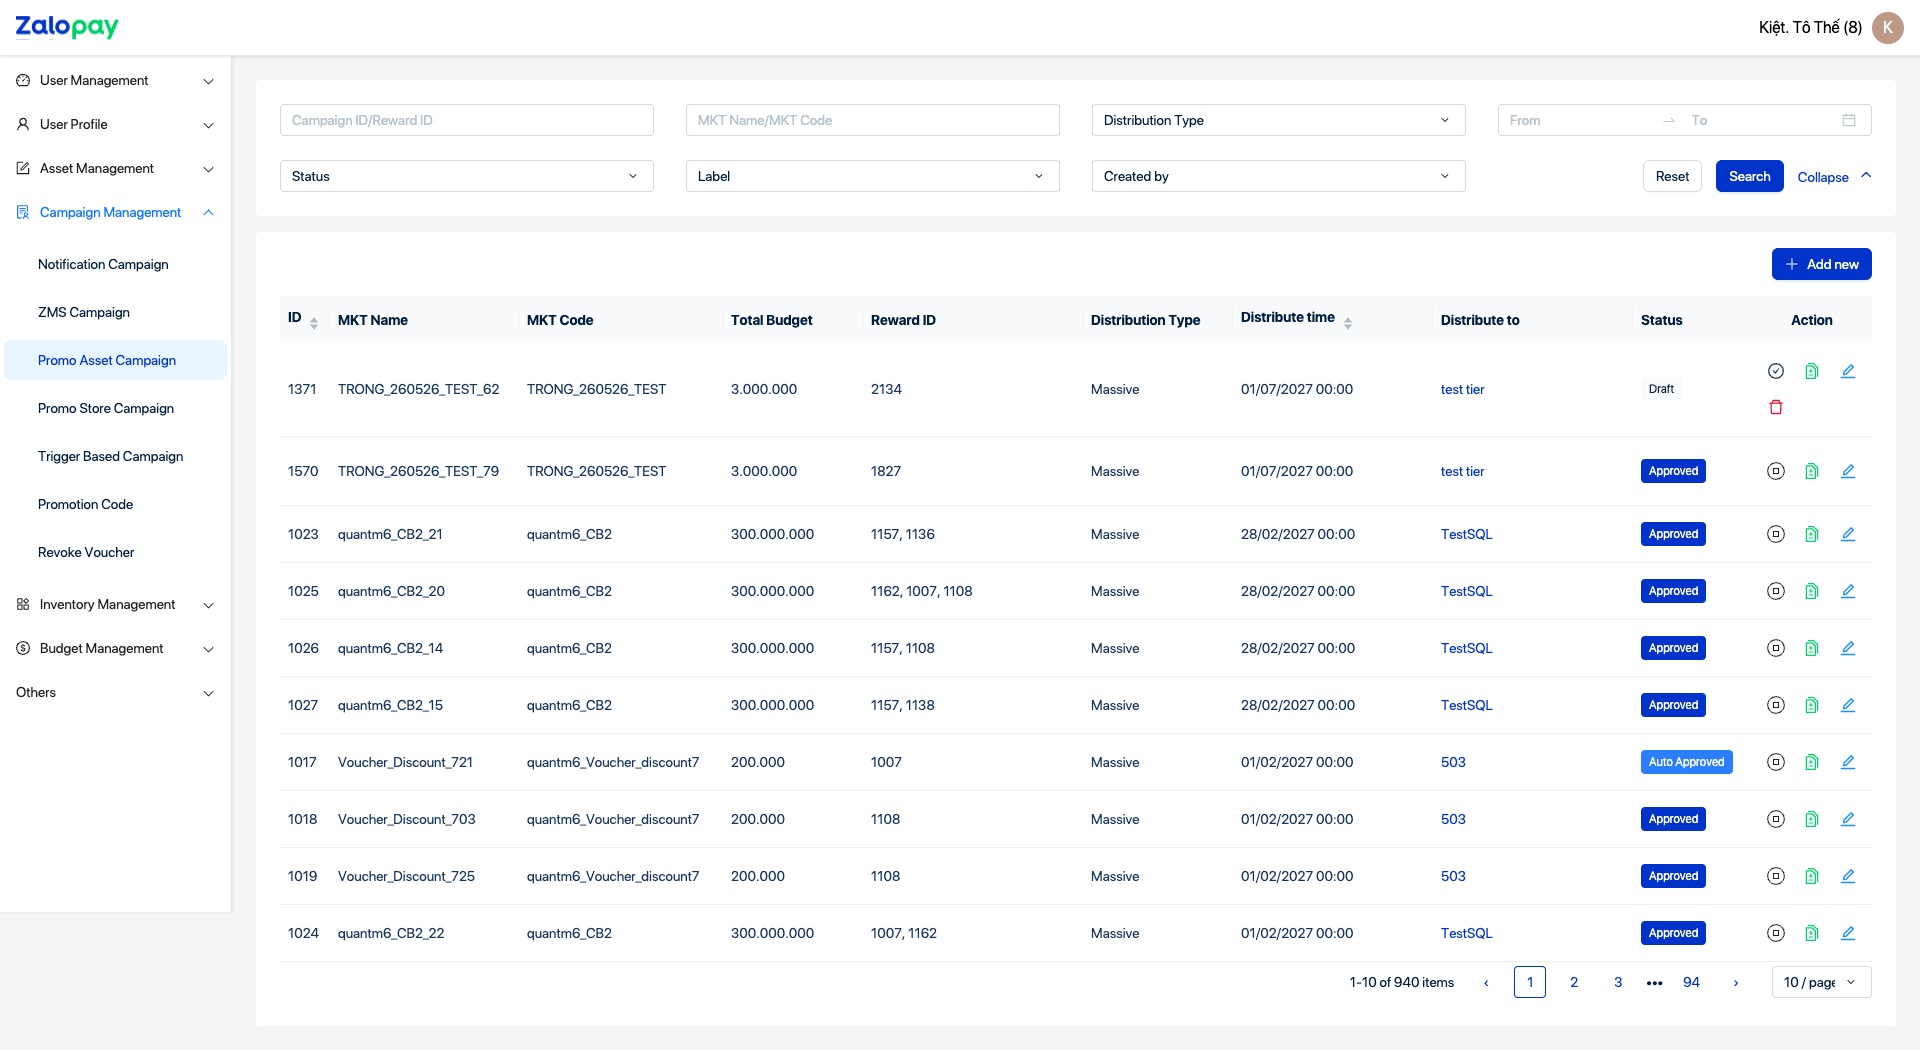
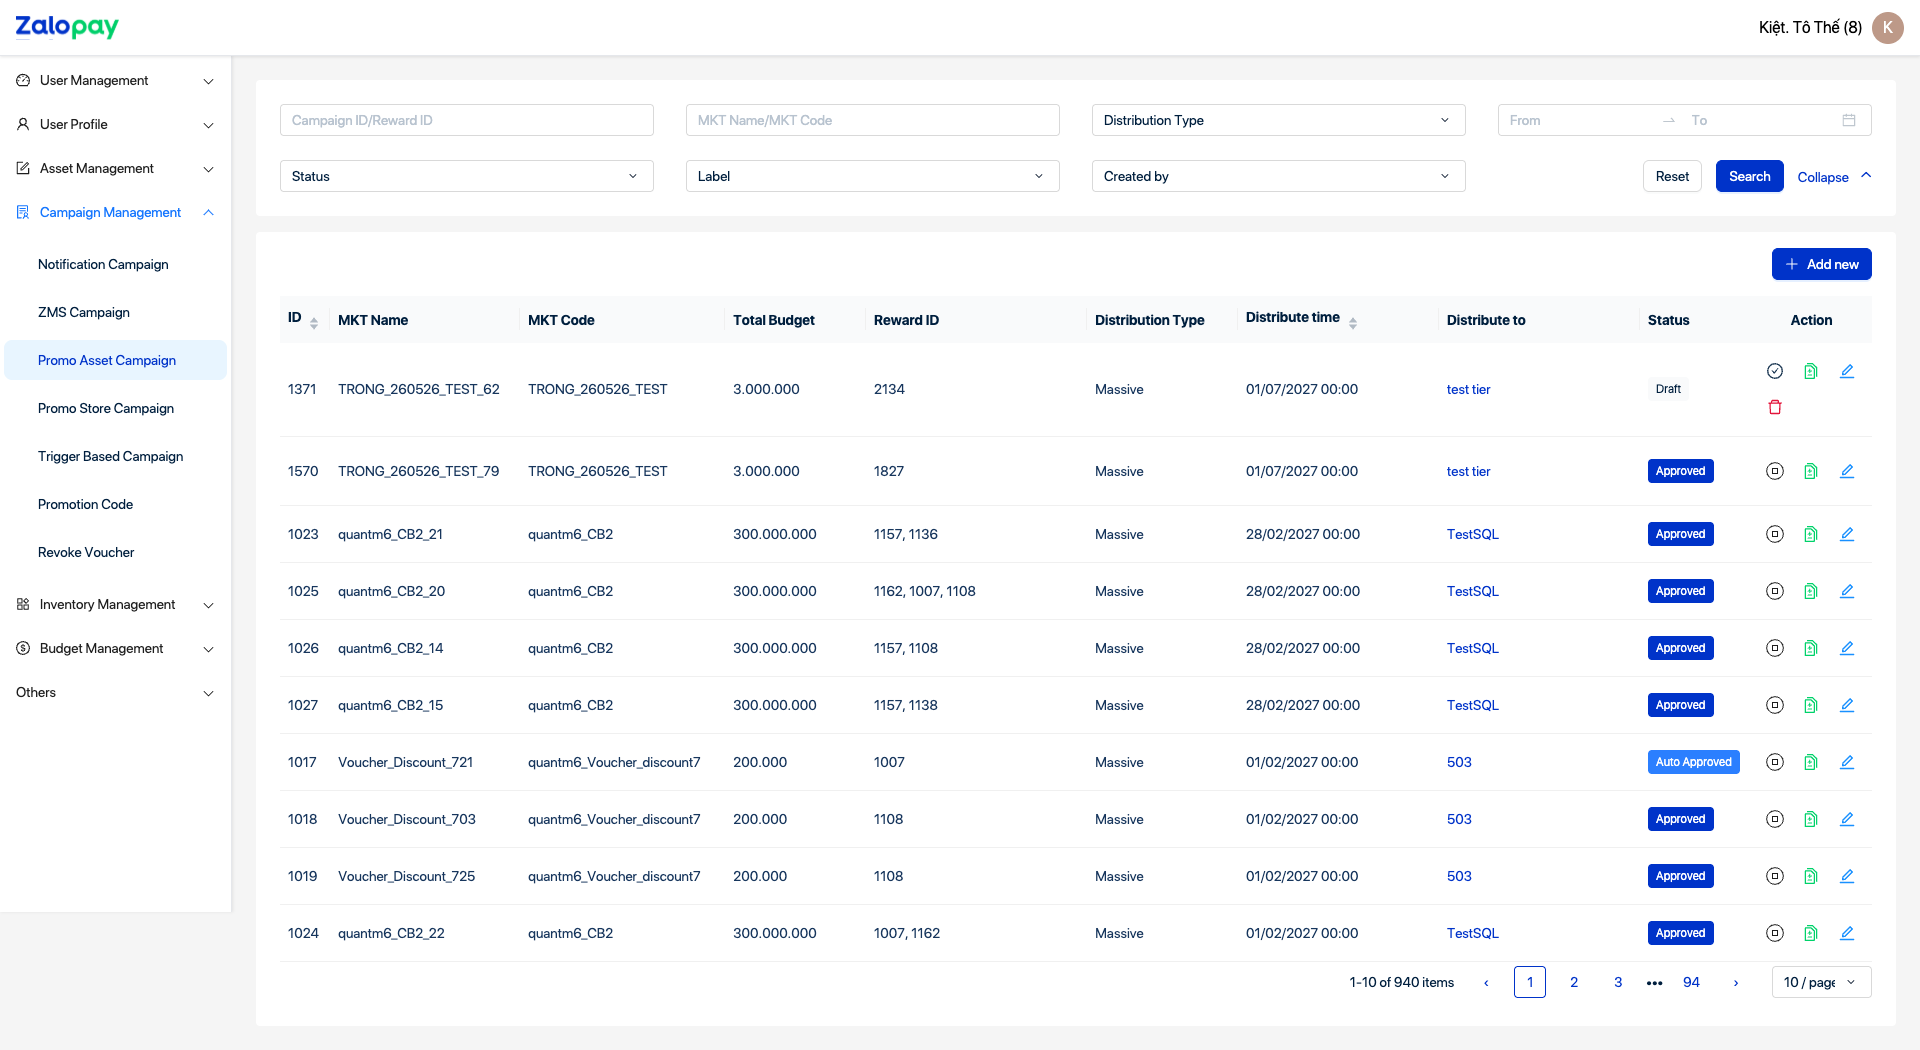
Complete Promo Asset list columns

diff --git a/app.js b/app.js
@@ -48,16 +48,16 @@ const state = {
 };
 
 const assetCampaigns = [
-  { id: 1371, name: "TRONG_260526_TEST_62", code: "TRONG_260526_TEST", budget: 3000000, rewards: "2134", type: "Massive", time: "01/07/2027 00:00", target: "test tier", status: "Draft" },
-  { id: 1570, name: "TRONG_260526_TEST_79", code: "TRONG_260526_TEST", budget: 3000000, rewards: "1827", type: "Massive", time: "01/07/2027 00:00", target: "test tier", status: "Approved" },
-  { id: 1023, name: "quantm6_CB2_21", code: "quantm6_CB2", budget: 300000000, rewards: "1157, 1136", type: "Massive", time: "28/02/2027 00:00", target: "TestSQL", status: "Approved" },
-  { id: 1025, name: "quantm6_CB2_20", code: "quantm6_CB2", budget: 300000000, rewards: "1162, 1007, 1108", type: "Massive", time: "28/02/2027 00:00", target: "TestSQL", status: "Approved" },
-  { id: 1026, name: "quantm6_CB2_14", code: "quantm6_CB2", budget: 300000000, rewards: "1157, 1108", type: "Massive", time: "28/02/2027 00:00", target: "TestSQL", status: "Approved" },
-  { id: 1027, name: "quantm6_CB2_15", code: "quantm6_CB2", budget: 300000000, rewards: "1157, 1138", type: "Massive", time: "28/02/2027 00:00", target: "TestSQL", status: "Approved" },
-  { id: 1017, name: "Voucher_Discount_721", code: "quantm6_Voucher_discount7", budget: 200000, rewards: "1007", type: "Massive", time: "01/02/2027 00:00", target: "503", status: "Auto Approved" },
-  { id: 1018, name: "Voucher_Discount_703", code: "quantm6_Voucher_discount7", budget: 200000, rewards: "1108", type: "Massive", time: "01/02/2027 00:00", target: "503", status: "Approved" },
-  { id: 1019, name: "Voucher_Discount_725", code: "quantm6_Voucher_discount7", budget: 200000, rewards: "1108", type: "Massive", time: "01/02/2027 00:00", target: "503", status: "Approved" },
-  { id: 1024, name: "quantm6_CB2_22", code: "quantm6_CB2", budget: 300000000, rewards: "1007, 1162", type: "Massive", time: "01/02/2027 00:00", target: "TestSQL", status: "Approved" }
+  { id: 1371, name: "TRONG_260526_TEST_62", code: "TRONG_260526_TEST", budget: 3000000, rewards: "2134", type: "Massive", time: "01/07/2027 00:00", target: "test tier", status: "Draft", label: "annhg_test_icon, ZPO_a, Enablers", owner: "trongdd2" },
+  { id: 1570, name: "TRONG_260526_TEST_79", code: "TRONG_260526_TEST", budget: 3000000, rewards: "1827", type: "Massive", time: "01/07/2027 00:00", target: "test tier", status: "Approved", label: "annhg_test_icon, ZPO_a, Enablers", owner: "trongdd2" },
+  { id: 1023, name: "quantm6_CB2_21", code: "quantm6_CB2", budget: 300000000, rewards: "1157, 1136", type: "Massive", time: "28/02/2027 00:00", target: "TestSQL", status: "Approved", label: "", owner: "nghiatn" },
+  { id: 1025, name: "quantm6_CB2_20", code: "quantm6_CB2", budget: 300000000, rewards: "1162, 1007, 1108", type: "Massive", time: "28/02/2027 00:00", target: "TestSQL", status: "Approved", label: "", owner: "nghiatn" },
+  { id: 1026, name: "quantm6_CB2_14", code: "quantm6_CB2", budget: 300000000, rewards: "1157, 1108", type: "Massive", time: "28/02/2027 00:00", target: "TestSQL", status: "Approved", label: "", owner: "nghiatn" },
+  { id: 1027, name: "quantm6_CB2_15", code: "quantm6_CB2", budget: 300000000, rewards: "1157, 1138", type: "Massive", time: "28/02/2027 00:00", target: "TestSQL", status: "Approved", label: "", owner: "nghiatn" },
+  { id: 1017, name: "Voucher_Discount_721", code: "quantm6_Voucher_discount7", budget: 200000, rewards: "1007", type: "Massive", time: "01/02/2027 00:00", target: "503", status: "Auto Approved", label: "", owner: "nghiatn" },
+  { id: 1018, name: "Voucher_Discount_703", code: "quantm6_Voucher_discount7", budget: 200000, rewards: "1108", type: "Massive", time: "01/02/2027 00:00", target: "503", status: "Approved", label: "", owner: "nghiatn" },
+  { id: 1019, name: "Voucher_Discount_725", code: "quantm6_Voucher_discount7", budget: 200000, rewards: "1108", type: "Massive", time: "01/02/2027 00:00", target: "503", status: "Approved", label: "", owner: "nghiatn" },
+  { id: 1024, name: "quantm6_CB2_22", code: "quantm6_CB2", budget: 300000000, rewards: "1007, 1162", type: "Massive", time: "01/02/2027 00:00", target: "TestSQL", status: "Approved", label: "", owner: "nghiatn" }
 ];
 
 state.campaigns = state.campaigns.map((campaign, campaignIndex) => {
@@ -160,7 +160,7 @@ function assetActionIcon(kind, label) {
 function renderAssetRows(rows = assetCampaigns) {
   const body = document.getElementById("assetCampaignRows");
   body.innerHTML = rows.map(item => `<tr>
-    <td>${item.id}</td><td>${item.name}</td><td>${item.code}</td><td>${money(item.budget)}</td><td>${item.rewards}</td><td>${item.type}</td><td>${item.time}</td><td><a href="#">${item.target}</a></td><td><span class="status ${statusClass(item.status)}">${item.status}</span></td>
+    <td>${item.id}</td><td>${item.name}</td><td>${item.code}</td><td>${money(item.budget)}</td><td>${item.rewards}</td><td>${item.type}</td><td>${item.time}</td><td><a href="#">${item.target}</a></td><td><span class="status ${statusClass(item.status)}">${item.status}</span></td><td>${item.label}</td><td>${item.owner}</td>
     <td><div class="asset-row-actions">${assetActionIcon(item.status === "Draft" ? "approve" : "stop", item.status === "Draft" ? "Approve" : "Stop")}${assetActionIcon("clone", "Clone")}${assetActionIcon("edit", "Edit")}${item.status === "Draft" ? assetActionIcon("delete", "Delete") : ""}</div></td>
   </tr>`).join("");
   document.getElementById("assetItemCount").textContent = rows.length ? `1-${rows.length} of 940 items` : "0 items";
@@ -192,7 +192,9 @@ function initAssetList() {
     const mkt = document.getElementById("assetFilterMkt").value.toLowerCase().trim();
     const type = document.getElementById("assetFilterType").value;
     const status = document.getElementById("assetFilterStatus").value;
-    renderAssetRows(assetCampaigns.filter(item => (!id || String(item.id).includes(id) || item.rewards.includes(id)) && (!mkt || item.name.toLowerCase().includes(mkt) || item.code.toLowerCase().includes(mkt)) && (!type || item.type === type) && (!status || item.status === status)));
+    const label = document.getElementById("assetFilterLabel").value;
+    const owner = document.getElementById("assetFilterOwner").value;
+    renderAssetRows(assetCampaigns.filter(item => (!id || String(item.id).includes(id) || item.rewards.includes(id)) && (!mkt || item.name.toLowerCase().includes(mkt) || item.code.toLowerCase().includes(mkt)) && (!type || item.type === type) && (!status || item.status === status) && (!label || item.label.includes(label)) && (!owner || item.owner === owner)));
   };
   main.onclick = event => {
     const action = event.target.closest(".asset-icon-button");

diff --git a/index.html b/index.html
@@ -83,7 +83,7 @@
           <div class="asset-date-range" aria-label="Distribute time"><input id="assetFilterFrom" placeholder="From" aria-label="From"><span>→</span><input id="assetFilterTo" placeholder="To" aria-label="To"><span class="calendar-mark" aria-hidden="true"></span></div>
           <select id="assetFilterStatus" aria-label="Status"><option value="">Status</option><option>Draft</option><option>Approved</option><option>Auto Approved</option></select>
           <select id="assetFilterLabel" aria-label="Label"><option value="">Label</option><option>ZPO</option><option>BAU</option></select>
-          <select id="assetFilterOwner" aria-label="Created by"><option value="">Created by</option><option>kiettt8</option><option>nghiatn</option></select>
+          <select id="assetFilterOwner" aria-label="Created by"><option value="">Created by</option><option>trongdd2</option><option>kiettt8</option><option>nghiatn</option></select>
           <div class="asset-filter-actions">
             <button class="asset-btn secondary" id="assetResetFilter">Reset</button>
             <button class="asset-btn primary" id="assetSearchFilter">Search</button>
@@ -96,7 +96,7 @@
         <div class="asset-list-toolbar"><button class="asset-btn primary" id="assetAddNew"><span class="plus-mark" aria-hidden="true"></span>Add new</button></div>
         <div class="asset-table-wrap">
           <table class="asset-table">
-            <thead><tr><th>ID <span class="sort-mark" aria-hidden="true"><img src="assets/icon-sort-up.svg" alt=""><img src="assets/icon-sort-down.svg" alt=""></span></th><th>MKT Name</th><th>MKT Code</th><th>Total Budget</th><th>Reward ID</th><th>Distribution Type</th><th>Distribute time <span class="sort-mark" aria-hidden="true"><img src="assets/icon-sort-up.svg" alt=""><img src="assets/icon-sort-down.svg" alt=""></span></th><th>Distribute to</th><th>Status</th><th>Action</th></tr></thead>
+            <thead><tr><th>ID <span class="sort-mark" aria-hidden="true"><img src="assets/icon-sort-up.svg" alt=""><img src="assets/icon-sort-down.svg" alt=""></span></th><th>MKT Name</th><th>MKT Code</th><th>Total Budget</th><th>Reward ID</th><th>Distribution Type</th><th>Distribute time <span class="sort-mark" aria-hidden="true"><img src="assets/icon-sort-up.svg" alt=""><img src="assets/icon-sort-down.svg" alt=""></span></th><th>Distribute to</th><th>Status</th><th>Label</th><th>Created by</th><th>Action</th></tr></thead>
             <tbody id="assetCampaignRows"></tbody>
           </table>
         </div>

diff --git a/styles.css b/styles.css
@@ -220,7 +220,7 @@ body.asset-mode .time-field { grid-column: auto; }
 .asset-list-panel { min-height: 794px; margin-top: 16px; padding: 16px 24px 14px; background: #fff; border-radius: 4px; }
 .asset-list-toolbar { height: 48px; display: flex; justify-content: flex-end; align-items: flex-start; }
 .asset-table-wrap { min-height: 666px; overflow-x: auto; }
-.asset-table { min-width: 1613px; table-layout: fixed; font-variant-numeric: tabular-nums; }
+.asset-table { min-width: 1893px; table-layout: fixed; font-variant-numeric: tabular-nums; }
 .asset-table th:nth-child(1) { width: 50px; }
 .asset-table th:nth-child(2) { width: 189px; }
 .asset-table th:nth-child(3) { width: 204px; }
@@ -229,13 +229,16 @@ body.asset-mode .time-field { grid-column: auto; }
 .asset-table th:nth-child(6) { width: 150px; }
 .asset-table th:nth-child(7) { width: 200px; }
 .asset-table th:nth-child(8) { width: 200px; }
-.asset-table th:nth-child(9) { width: 140px; }
-.asset-table th:nth-child(10) { width: 120px; }
+.asset-table th:nth-child(9) { width: 120px; }
+.asset-table th:nth-child(10) { width: 170px; }
+.asset-table th:nth-child(11) { width: 120px; }
+.asset-table th:nth-child(12) { width: 120px; }
 .asset-table th { position: relative; height: 47px; padding: 0 8px; background: #f9fafb; color: #001f3e; font-size: 14px; font-weight: 600; }
 .asset-table th:not(:last-child)::after { content: ""; position: absolute; top: 12px; right: 0; width: 1px; height: 22px; background: #f0f0f0; }
 .asset-table td { height: 57px; padding: 0 8px; border-color: #f0f0f0; color: #17365d; font-size: 14px; }
 .asset-table tbody tr:first-child td { height: 93px; }
 .asset-table tbody tr:nth-child(2) td { height: 69px; }
+.asset-table td:nth-child(10) { white-space: normal; line-height: 22px; }
 .asset-table th:last-child,
 .asset-table td:last-child { position: sticky; right: 0; z-index: 2; width: 120px; background: #fff; text-align: center; box-shadow: -14px 0 18px -18px rgba(0,31,62,.55); }
 .asset-table th:last-child { z-index: 3; background: #f9fafb; }
